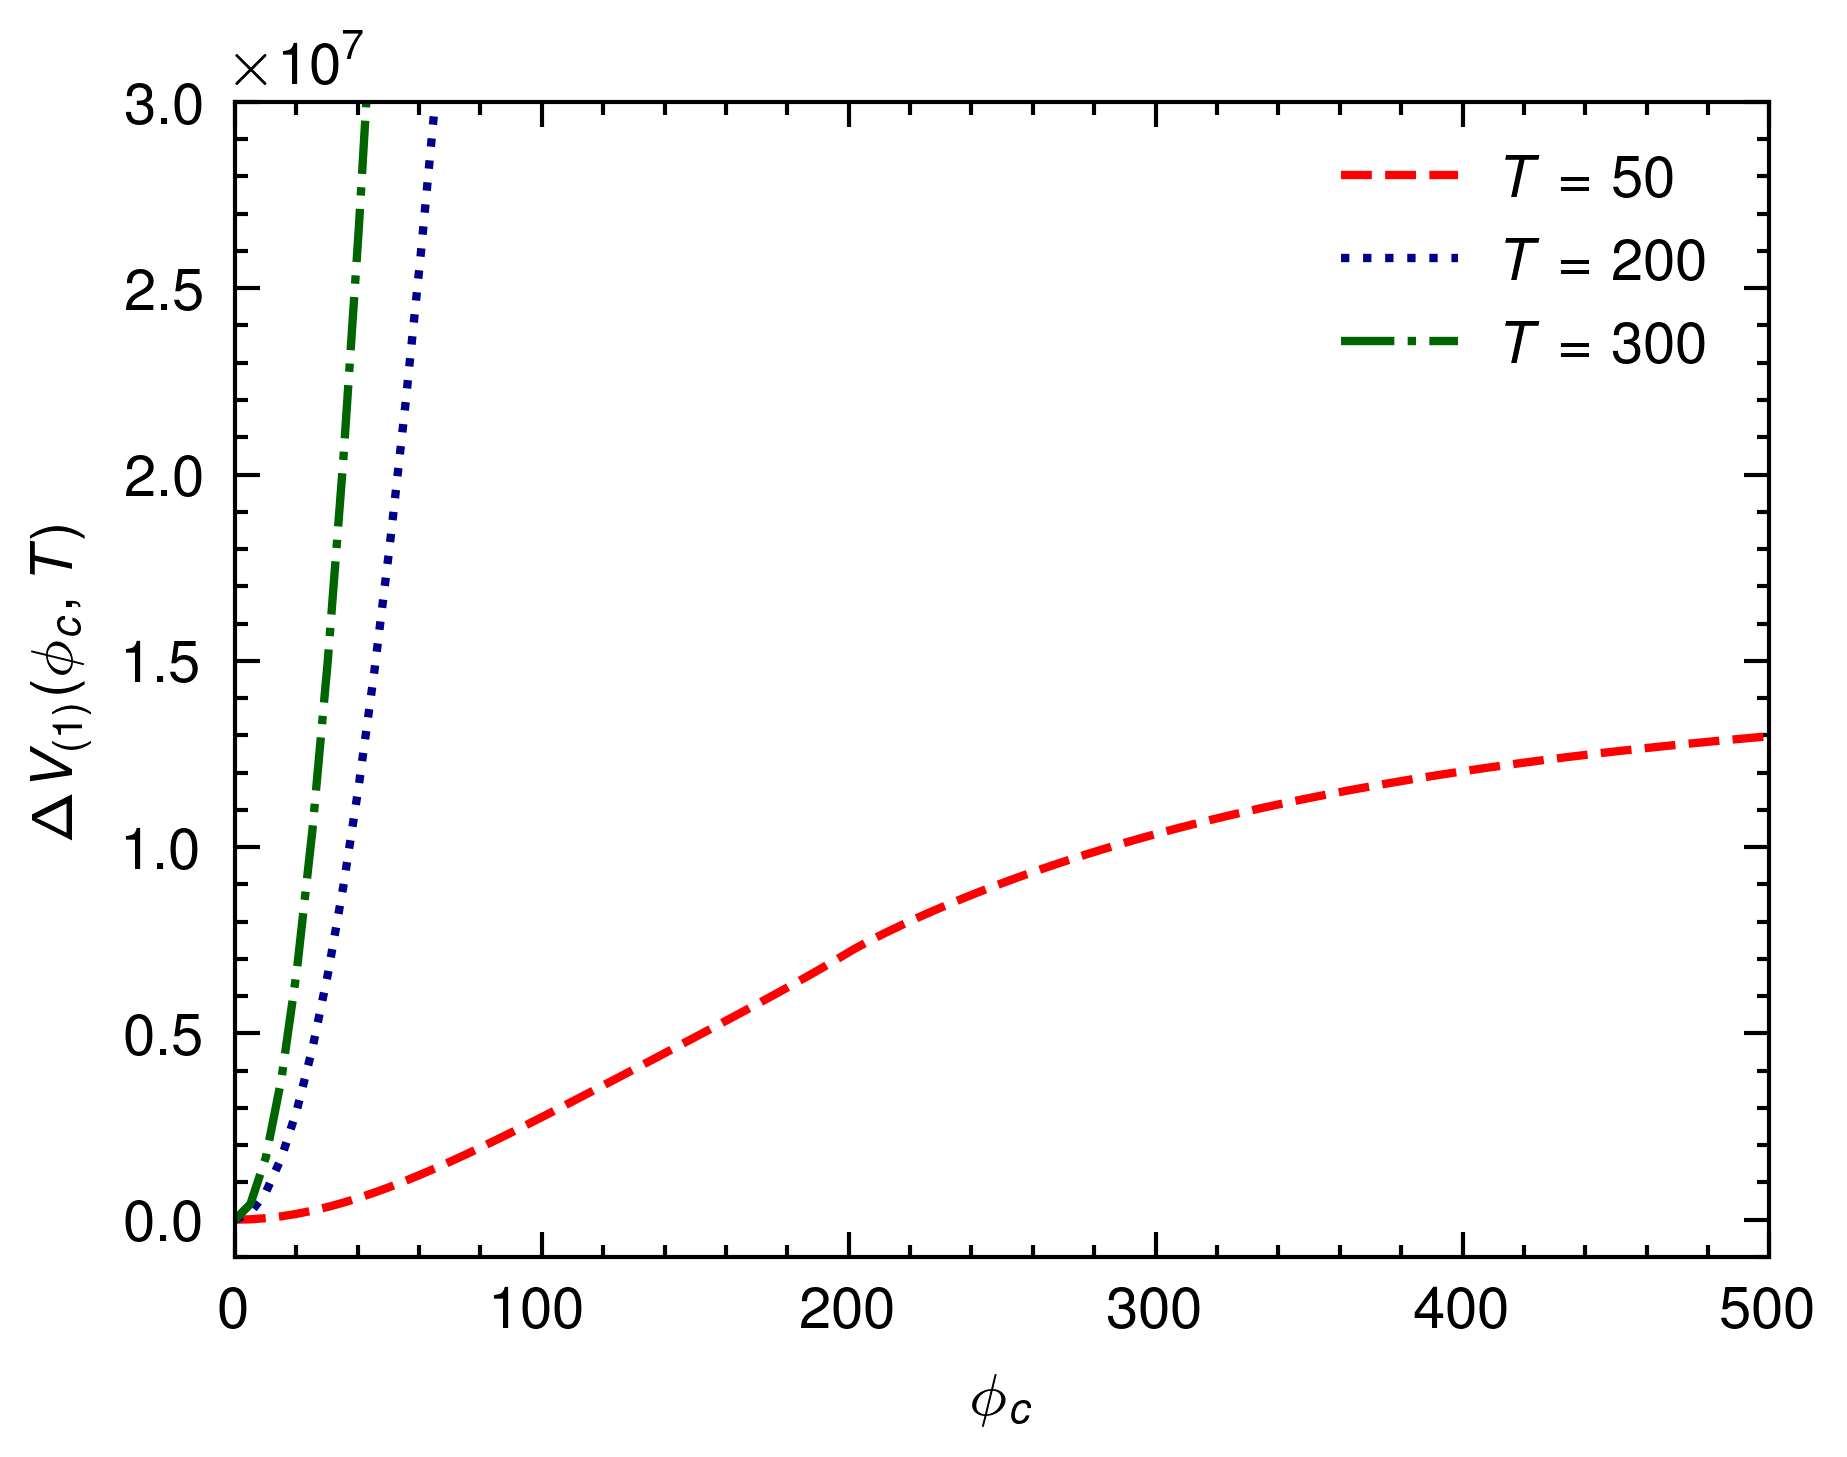
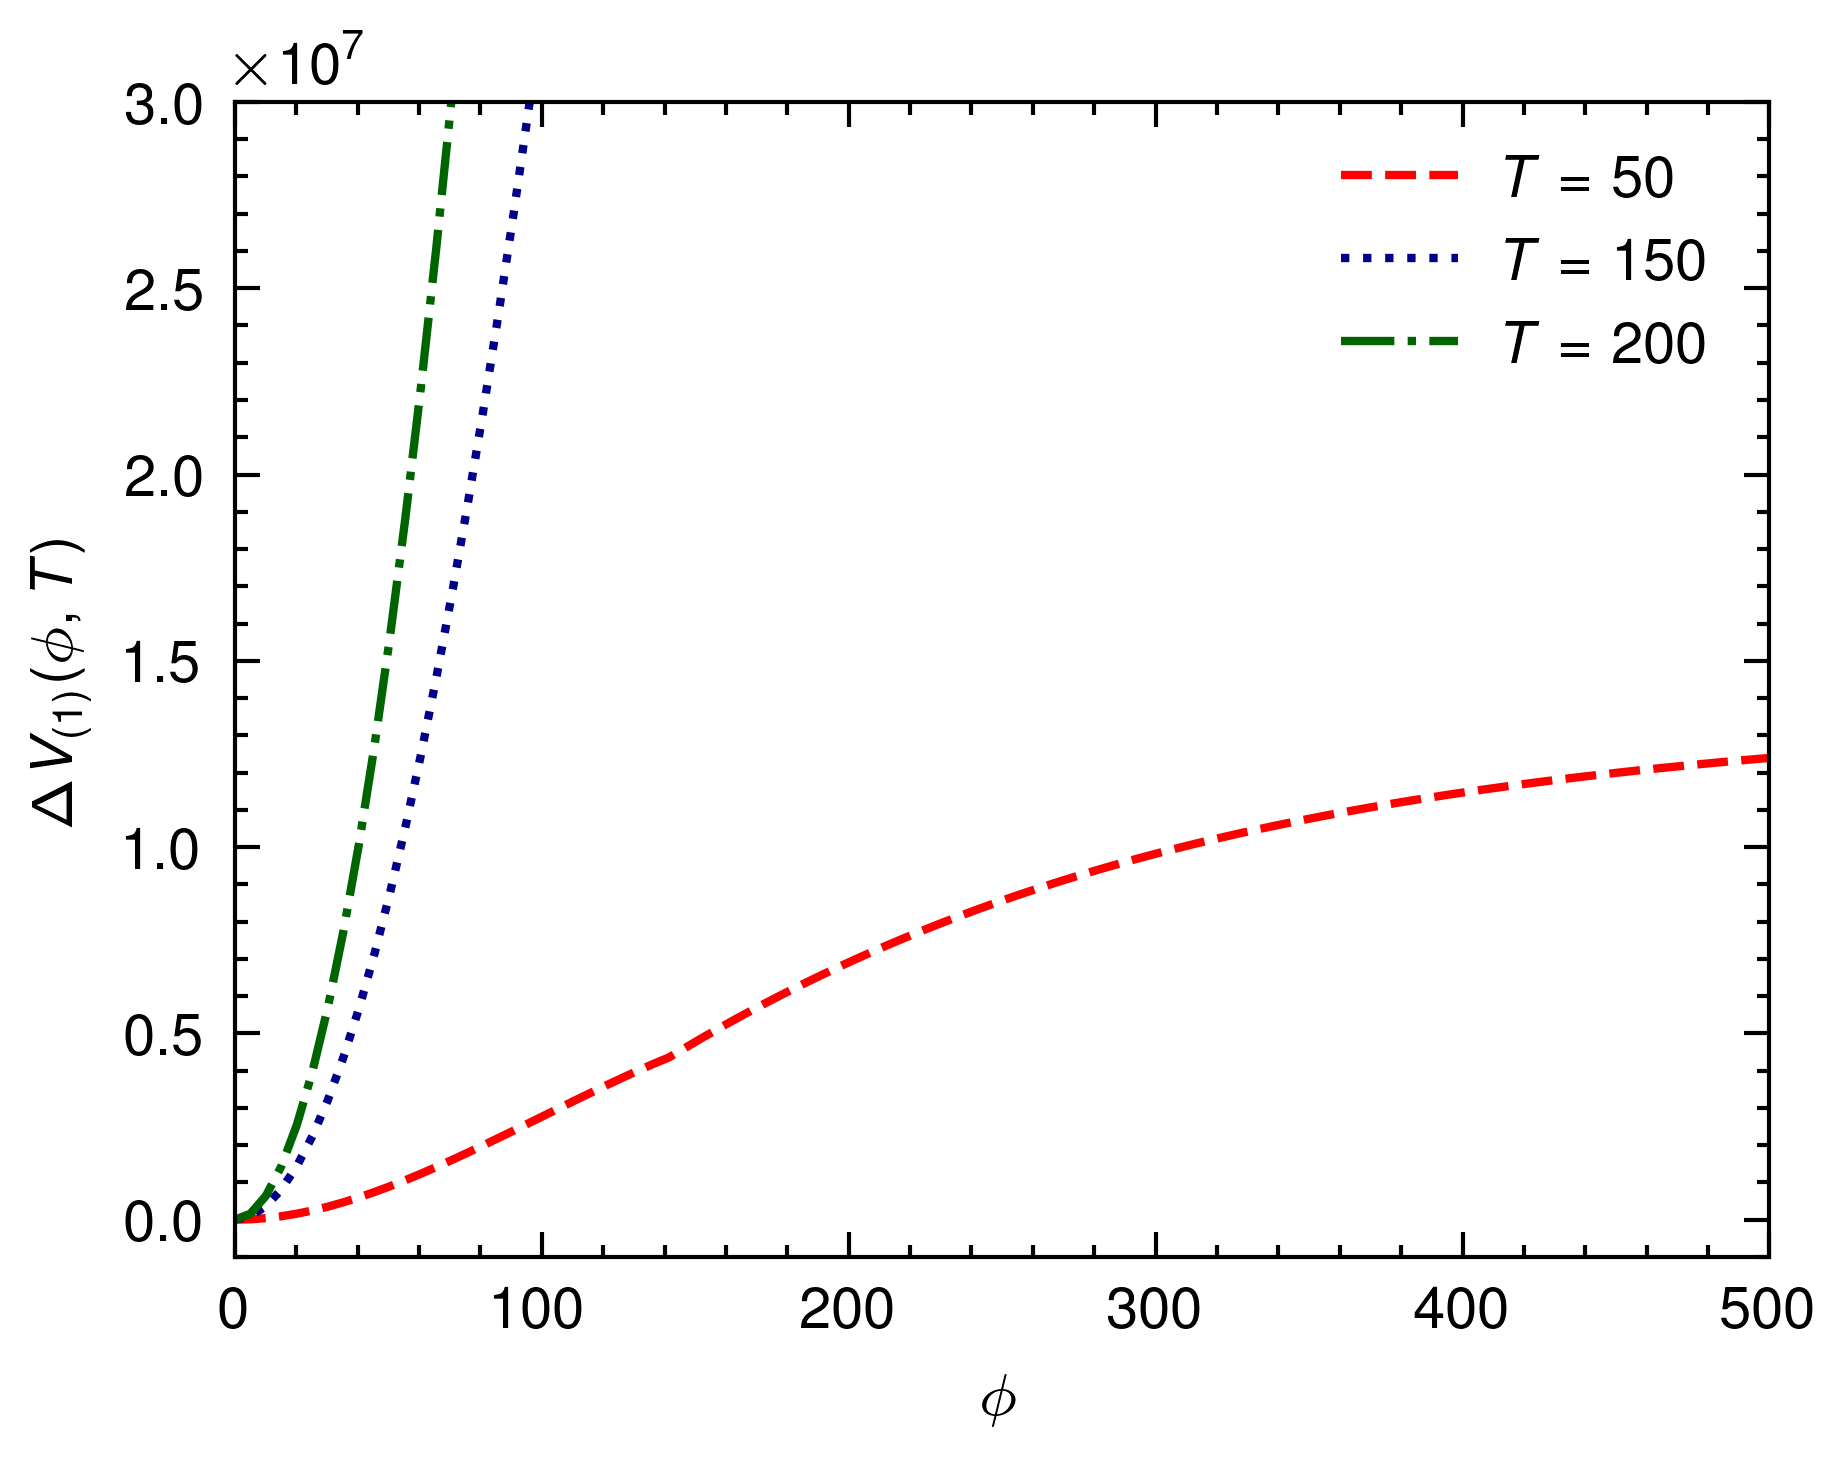
Fix higgs

diff --git a/src/main.rs b/src/main.rs
@@ -4,7 +4,7 @@ use indicatif::{ProgressBar, ParallelProgressIterator, ProgressIterator};
 use std::f64::consts::PI;
 
 const MH: f64 = 125.0;
-const LAMBDAC: f64 = 0.13;
+const RENORMSCALE: f64 = 246f64;
 const G: f64 = 0.65;
 const GP: f64 = 0.35;
 const YT: f64 = 1.0;
@@ -21,6 +21,9 @@ const Ct: f64 = 3f64 / 2f64;
 
 // For integration
 const INF: f64 = 20f64;
+const EPSREL: f64 = 1e-4;
+const MAXITER: u32 = 15;
+const QUADGK: Integral = G7K15R(EPSREL, MAXITER);
 
 #[allow(non_snake_case)]
 fn main() {
@@ -49,16 +52,18 @@ fn main() {
         .set_style(PlotStyle::Nature)
         .set_legend(vec!["W", "Z", "H", "Top"])
         .set_line_style(vec![(0, LineStyle::Dashed), (1, LineStyle::Dotted), (2, LineStyle::DashDot), (3, LineStyle::Solid)])
+        .set_xlabel(r"$T$")
+        .set_ylabel(r"$J$")
         .tight_layout()
         .set_dpi(600)
         .set_path("J.png")
         .savefig().unwrap();
 
     let phi_c_vec = linspace(0, 500, 100);
-    let V0 = phi_c_vec.fmap(V0);
-    let V1loop = phi_c_vec.fmap(V1loop);
-    let V_eff = V0.add_v(&V1loop);
-    let T = 100f64;
+    let V0_vec = phi_c_vec.fmap(V0);
+    let V1loop_vec = phi_c_vec.fmap(V1loop);
+    let V_eff = V0_vec.add_v(&V1loop_vec);
+    let T = 150f64;
     let V1loop_thermal_vec = phi_c_vec.par_iter()
         .progress_with(ProgressBar::new(phi_c_vec.len() as u64))
         .map(|&phi_c| V1loop_thermal(phi_c, T))
@@ -72,21 +77,26 @@ fn main() {
     let mut plt = Plot2D::new();
     plt
         .set_domain(phi_c_vec)
-        .insert_image(V0.clone())
-        .insert_image(V1loop)
+        .insert_image(V0_vec.clone())
+        .insert_image(V1loop_vec)
         .insert_image(V1loop_thermal_vec)
         .insert_image(V_tot)
         .set_legend(vec!["Tree", "One-loop", one_loop_thermal_legend.as_str(), "Total"])
         .set_line_style(vec![(0, LineStyle::Dashed), (1, LineStyle::Dotted), (2, LineStyle::DashDot), (3, LineStyle::Solid)])
         .set_color(vec![(0, "red"), (1, "darkblue"), (2, "darkgreen"), (3, "black")])
+        .set_xlabel(r"$\phi$")
+        .set_ylabel(r"$V(\phi)$")
         .set_style(PlotStyle::Nature)
         .set_dpi(600)
         .tight_layout()
-        .set_path("one_loop_thermal_phi_c.png")
+        .set_path("one_loop_thermal_phi.png")
         .savefig().unwrap();
 
     let phi_c_vec = linspace(0, 500, 100);
-    let T_vec = [50f64, 200f64, 300f64];
+    let V0 = phi_c_vec.fmap(V0);
+    let V1loop = phi_c_vec.fmap(V1loop);
+    let V_eff = V0.add_v(&V1loop);
+    let T_vec = [50f64, 150f64, 200f64];
     let V1loop_thermal_vec = T_vec.iter()
         .progress_with(ProgressBar::new(T_vec.len() as u64))
         .map(|&T| phi_c_vec.par_iter().map(|&phi_c| V1loop_thermal(phi_c, T)).collect::<Vec<_>>())
@@ -107,12 +117,12 @@ fn main() {
         plt.insert_image(V1loop_thermal);
     }
     plt
-        .set_legend(vec![r"$T = 50$", r"$T = 200$", r"$T = 300$"])
+        .set_legend(vec![r"$T = 50$", r"$T = 150$", r"$T = 200$"])
         .set_line_style(vec![(0, LineStyle::Dashed), (1, LineStyle::Dotted), (2, LineStyle::DashDot)])
         .set_color(vec![(0, "red"), (1, "darkblue"), (2, "darkgreen")])
         .set_style(PlotStyle::Nature)
-        .set_xlabel(r"$\phi_c$")
-        .set_ylabel(r"$\Delta V_{(1)}(\phi_c, T)$")
+        .set_xlabel(r"$\phi$")
+        .set_ylabel(r"$\Delta V_{(1)}(\phi, T)$")
         .set_ylim((-1e6, 3e7))
         .set_dpi(600)
         .tight_layout()
@@ -125,12 +135,12 @@ fn main() {
         plt.insert_image(V_tot);
     }
     plt
-        .set_legend(vec![r"$T = 50$", r"$T = 200$", r"$T = 300$"])
+        .set_legend(vec![r"$T = 50$", r"$T = 150$", r"$T = 200$"])
         .set_line_style(vec![(0, LineStyle::Dashed), (1, LineStyle::Dotted), (2, LineStyle::DashDot)])
         .set_color(vec![(0, "red"), (1, "darkblue"), (2, "darkgreen")])
         .set_style(PlotStyle::Nature)
-        .set_xlabel(r"$\phi_c$")
-        .set_ylabel(r"$V_{\rm tot}$")
+        .set_xlabel(r"$\phi$")
+        .set_ylabel(r"$V_{\rm tot}(\phi, T)$")
         .set_dpi(600)
         .tight_layout()
         .set_path("V_tot.png")
@@ -152,16 +162,22 @@ pub fn m_t(phi_c: f64) -> f64 {
 }
 
 pub fn m_h(phi_c: f64) -> f64 {
-    (-MH.powi(2) + 3f64 * LAMBDAC * phi_c.powi(2)).abs().sqrt()
+    let mu2 = MH.powi(2) / 2f64;
+    let l = mu2 / RENORMSCALE.powi(2);
+    (-mu2 + 3f64 * l * phi_c.powi(2)).abs().sqrt()
 }
 
 pub fn m_h2(phi_c: f64) -> f64 {
-    -MH.powi(2) + 3f64 * LAMBDAC * phi_c.powi(2)
+    let mu2 = MH.powi(2) / 2f64;
+    let l = mu2 / RENORMSCALE.powi(2);
+    -mu2 + 3f64 * l * phi_c.powi(2)
 }
 
 #[allow(non_snake_case)]
 pub fn V0(phi_c: f64) -> f64 {
-    -0.5 * MH.powi(2) * phi_c.powi(2) + 0.25 * LAMBDAC * phi_c.powi(4)
+    let mu2 = MH.powi(2) / 2f64;
+    let l = mu2 / RENORMSCALE.powi(2);
+    -0.5 * mu2 * phi_c.powi(2) + 0.25 * l * phi_c.powi(4)
 }
 
 #[allow(non_snake_case)]
@@ -171,10 +187,10 @@ pub fn V1loop(phi_c: f64) -> f64 {
     let m_h = m_h(phi_c);
     let m_t = m_t(phi_c);
     1f64 / (64f64 * PI.powi(2)) * (
-        NW as f64 * m_W.powi(4) * ((m_W.powi(2) / MH.powi(2)).ln() - CW)
-        + NZ as f64 * m_Z.powi(4) * ((m_Z.powi(2) / MH.powi(2)).ln() - CZ)
-        + NH as f64 * m_h.powi(4) * ((m_h.powi(2) / MH.powi(2)).ln() - CH)
-        - Nt as f64 * m_t.powi(4) * ((m_t.powi(2) / MH.powi(2)).ln() - Ct)
+        NW as f64 * m_W.powi(4) * ((m_W.powi(2) / RENORMSCALE.powi(2)).ln() - CW)
+        + NZ as f64 * m_Z.powi(4) * ((m_Z.powi(2) / RENORMSCALE.powi(2)).ln() - CZ)
+        + NH as f64 * m_h.powi(4) * ((m_h.powi(2) / RENORMSCALE.powi(2)).ln() - CH)
+        - Nt as f64 * m_t.powi(4) * ((m_t.powi(2) / RENORMSCALE.powi(2)).ln() - Ct)
     )
 }
 
@@ -197,26 +213,24 @@ pub fn J_B(phi_c: f64, T: f64, boson: Boson) -> f64 {
         Boson::Z => m_Z(phi_c).powi(2) / T.powi(2),
         Boson::H => m_h(phi_c).powi(2) / T.powi(2),
     };
+    let f = |t: f64| {
+        t.powi(2) * (1f64 - (-(t.powi(2) + m_B_T).sqrt()).exp()).ln()
+    };
     match boson {
-        Boson::H => {
-            let f = |t: f64| {
-                let lambda_t2 = (INF * t).powi(2);
-                let m_B_T = m_h2(phi_c) / T.powi(2);
-                let sum = m_B_T + lambda_t2;
-                if sum >= 0f64 {
-                    t.powi(2) * (1f64 - (-sum.sqrt()).exp()).ln()
-                } else {
-                    let sum = sum.abs();
-                    t.powi(2) * (2f64 * ((0.5f64 * sum.sqrt()).sin().abs())).ln()
-                }
+        Boson::H if m_h2(phi_c) < 0f64 => {
+            let m_B_T = m_h2(phi_c) / T.powi(2);
+            let g = |t: f64| {
+                t.powi(2) * (2f64 * (0.5 * (-m_B_T - t.powi(2)).sqrt()).sin().abs()).ln()
             };
-            INF.powi(3) * integrate(f, (0f64, 1f64), G7K15R(1e-4, 18))
+            if m_B_T.sqrt() < INF {
+                integrate(f, (m_B_T.sqrt(), INF), QUADGK)
+                + integrate(g, (0f64, m_B_T.sqrt()), QUADGK)
+            } else {
+                integrate(f, (0f64, INF), QUADGK)
+            }
         },
         _ => {
-            let f = |t: f64| {
-                t.powi(2) * (1f64 - (-((INF * t).powi(2) + m_B_T).sqrt()).exp()).ln()
-            };
-            INF.powi(3) * integrate(f, (0f64, 1f64), G7K15R(1e-4, 18))
+            integrate(f, (0f64, INF), QUADGK)
         }
     }
 }
@@ -227,13 +241,14 @@ pub fn J_F(phi_c: f64, T: f64, fermion: Fermion) -> f64 {
         Fermion::Top => m_t(phi_c).powi(2) / T.powi(2),
     };
     let f = |t: f64| {
-        t.powi(2) * (1f64 + (-((INF * t).powi(2) + m_F).sqrt()).exp()).ln()
+        t.powi(2) * (1f64 + (-(t.powi(2) + m_F).sqrt()).exp()).ln()
     };
-    INF.powi(3) * integrate(f, (0f64, 1f64), G7K15R(1e-4, 18))
+    integrate(f, (0f64, INF), QUADGK)
 }
 
 #[allow(non_snake_case)]
 pub fn V1loop_thermal(phi_c: f64, T: f64) -> f64 {
+    let T = T + 1e-100;
     let J_W = J_B(phi_c, T, Boson::W);
     let J_Z = J_B(phi_c, T, Boson::Z);
     let J_H = J_B(phi_c, T, Boson::H);
